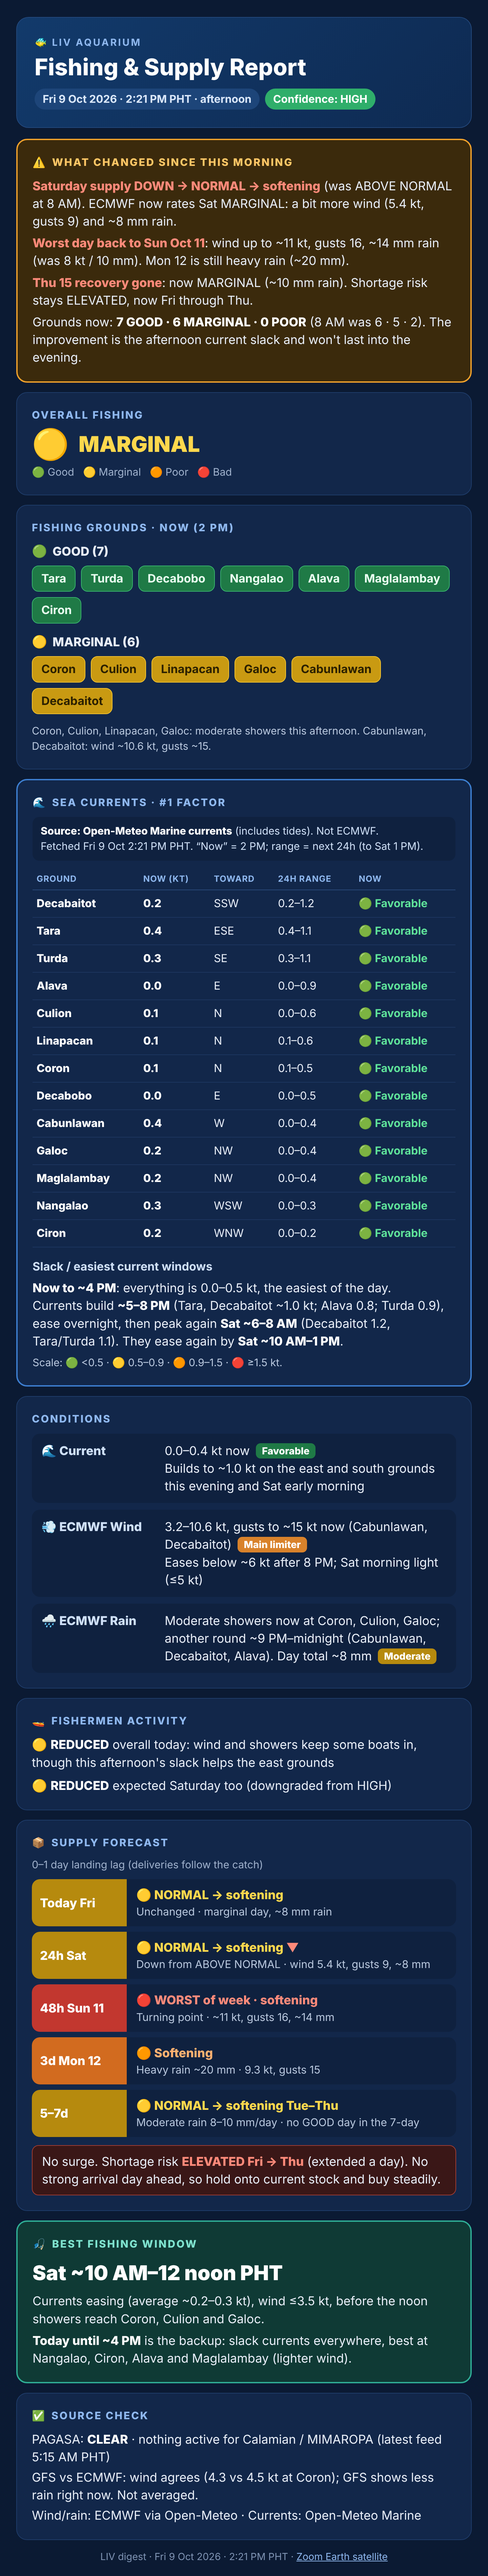
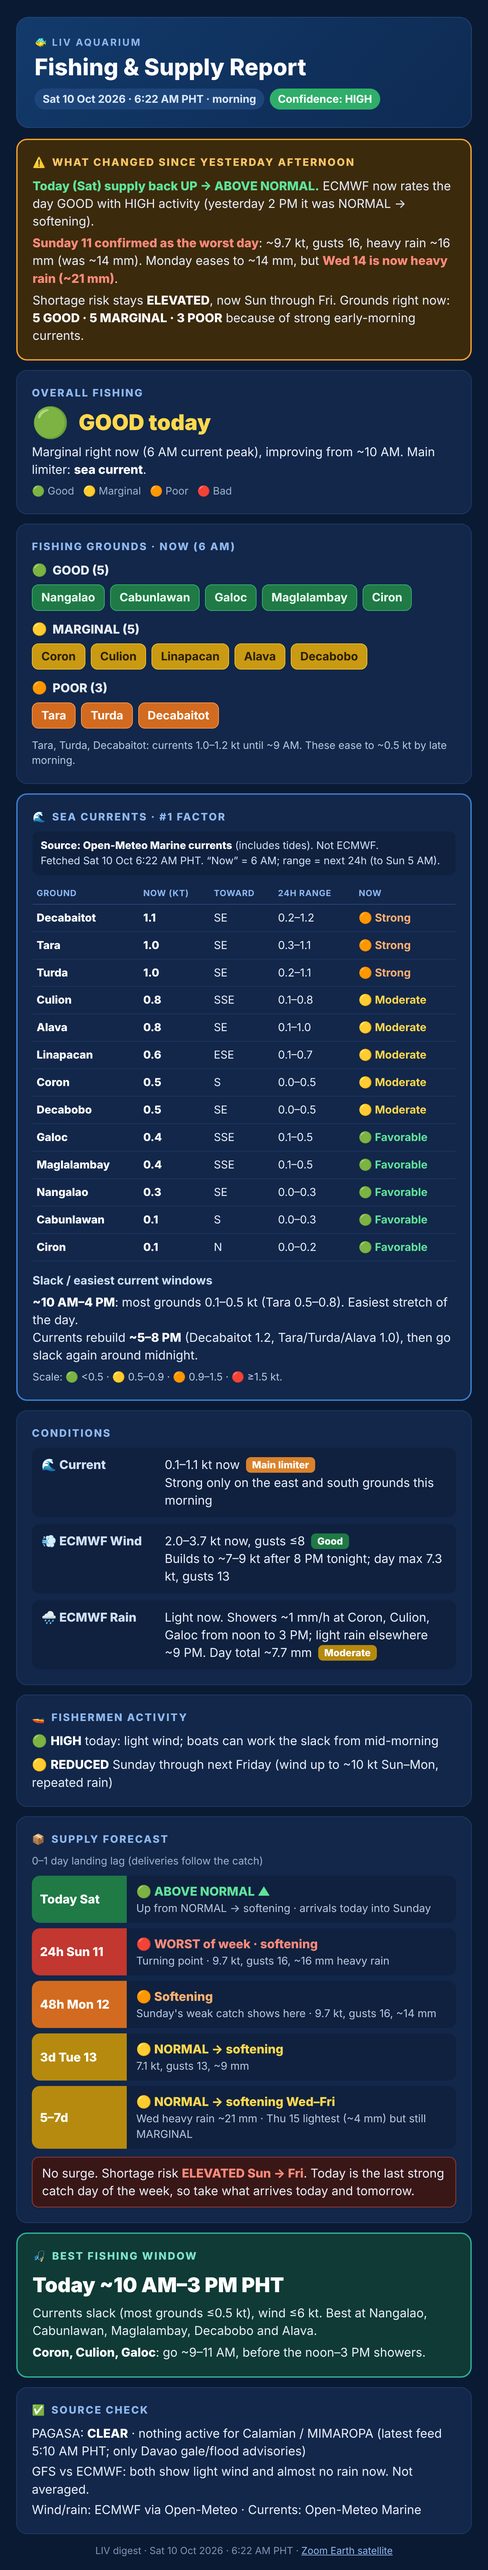
Digest 2026-10-10-am

diff --git a/digest.html b/digest.html
@@ -1,7 +1,7 @@
 <!DOCTYPE html>
 <html lang="en"><head><meta charset="utf-8">
 <meta name="viewport" content="width=device-width, initial-scale=1">
-<title>LIV Digest · Fri 9 Oct 2026 · 2:21 PM PHT</title>
+<title>LIV Digest · Sat 10 Oct 2026 · 6:22 AM PHT</title>
 <style>
 *{box-sizing:border-box;margin:0;padding:0}
 html{background:#0b1a33;-webkit-text-size-adjust:100%}
@@ -85,91 +85,93 @@ b,strong{font-weight:800;color:#fff}
 .p-high{background:#2fae6a;color:#fff}
 .t-poor{background:#d26b1f;color:#fff}
 .up{color:#5fe39a;font-weight:800}.dn{color:#ff8a7a;font-weight:800}
-</style></head><body><div style="font:14px system-ui;padding:8px 12px;background:#0b3d5c;color:#fff"><b>LIV Fishing &amp; Supply digest</b> &middot; <a style="color:#9fd8ff" href="./index.html">Map dashboard</a> &middot; <a style="color:#9fd8ff" href="./digest.html">Latest report</a> &middot; <a style="color:#9fd8ff" href="./archive/">Archive</a> &middot; <a style="color:#9fd8ff" href="latest.png">Image</a></div>
+.o{background:#d26b1f;color:#fff;border:1px solid #ff9a4d}</style><body><div style="font:14px system-ui;padding:8px 12px;background:#0b3d5c;color:#fff"><b>LIV Fishing &amp; Supply digest</b> &middot; <a style="color:#9fd8ff" href="./index.html">Map dashboard</a> &middot; <a style="color:#9fd8ff" href="./digest.html">Latest report</a> &middot; <a style="color:#9fd8ff" href="./archive/">Archive</a> &middot; <a style="color:#9fd8ff" href="latest.png">Image</a></div>
 <div class="hdr">
   <div class="brand"><span class="e">🐠</span> LIV AQUARIUM</div>
   <div class="title">Fishing &amp; Supply Report</div>
-  <div class="meta"><span class="pill p-date">Fri 9 Oct 2026 · 2:21 PM PHT · afternoon</span><span class="pill p-high">Confidence: HIGH</span></div>
+  <div class="meta"><span class="pill p-date">Sat 10 Oct 2026 · 6:22 AM PHT · morning</span><span class="pill p-high">Confidence: HIGH</span></div>
 </div>
 <div class="card banner">
-  <h2><span class="e">⚠</span> What changed since this morning</h2>
-  <p><b class="dn">Saturday supply DOWN → NORMAL → softening</b> (was ABOVE NORMAL at 8 AM). ECMWF now rates Sat MARGINAL: a bit more wind (5.4 kt, gusts 9) and ~8 mm rain.</p>
-  <p><b class="dn">Worst day back to Sun Oct 11</b>: wind up to ~11 kt, gusts 16, ~14 mm rain (was 8 kt / 10 mm). Mon 12 is still heavy rain (~20 mm).</p>
-  <p><b class="dn">Thu 15 recovery gone</b>: now MARGINAL (~10 mm rain). Shortage risk stays ELEVATED, now Fri through Thu.</p>
-  <p style="margin-bottom:0">Grounds now: <b>7 GOOD · 6 MARGINAL · 0 POOR</b> (8 AM was 6 · 5 · 2). The improvement is the afternoon current slack and won't last into the evening.</p>
+  <h2><span class="e">⚠</span> What changed since yesterday afternoon</h2>
+  <p><b class="up">Today (Sat) supply back UP → ABOVE NORMAL.</b> ECMWF now rates the day GOOD with HIGH activity (yesterday 2 PM it was NORMAL → softening).</p>
+  <p><b class="dn">Sunday 11 confirmed as the worst day</b>: ~9.7 kt, gusts 16, heavy rain ~16 mm (was ~14 mm). Monday eases to ~14 mm, but <b class="dn">Wed 14 is now heavy rain (~21 mm)</b>.</p>
+  <p style="margin-bottom:0">Shortage risk stays <b>ELEVATED</b>, now Sun through Fri. Grounds right now: <b>5 GOOD · 5 MARGINAL · 3 POOR</b> because of strong early-morning currents.</p>
 </div>
 <div class="card">
   <h2>Overall fishing</h2>
-  <div class="overall"><span class="ico e">🟡</span><span class="big">MARGINAL</span></div>
+  <div class="overall"><span class="ico e">🟢</span><span class="big">GOOD today</span></div>
+  <p style="margin-top:8px">Marginal right now (6 AM current peak), improving from ~10 AM. Main limiter: <b>sea current</b>.</p>
   <div class="scale"><span class="e">🟢</span> Good &nbsp; <span class="e">🟡</span> Marginal &nbsp; <span class="e">🟠</span> Poor &nbsp; <span class="e">🔴</span> Bad</div>
 </div>
 <div class="card">
-  <h2>Fishing grounds · now (2 PM)</h2>
-  <div class="grp"><div class="lbl"><span class="e">🟢</span> GOOD (7)</div>
-    <div class="chips"><span class="chip g">Tara</span><span class="chip g">Turda</span><span class="chip g">Decabobo</span><span class="chip g">Nangalao</span><span class="chip g">Alava</span><span class="chip g">Maglalambay</span><span class="chip g">Ciron</span></div></div>
-  <div class="grp"><div class="lbl"><span class="e">🟡</span> MARGINAL (6)</div>
-    <div class="chips"><span class="chip y">Coron</span><span class="chip y">Culion</span><span class="chip y">Linapacan</span><span class="chip y">Galoc</span><span class="chip y">Cabunlawan</span><span class="chip y">Decabaitot</span></div></div>
-  <p class="fn">Coron, Culion, Linapacan, Galoc: moderate showers this afternoon. Cabunlawan, Decabaitot: wind ~10.6 kt, gusts ~15.</p>
+  <h2>Fishing grounds · now (6 AM)</h2>
+  <div class="grp"><div class="lbl"><span class="e">🟢</span> GOOD (5)</div>
+    <div class="chips"><span class="chip g">Nangalao</span><span class="chip g">Cabunlawan</span><span class="chip g">Galoc</span><span class="chip g">Maglalambay</span><span class="chip g">Ciron</span></div></div>
+  <div class="grp"><div class="lbl"><span class="e">🟡</span> MARGINAL (5)</div>
+    <div class="chips"><span class="chip y">Coron</span><span class="chip y">Culion</span><span class="chip y">Linapacan</span><span class="chip y">Alava</span><span class="chip y">Decabobo</span></div></div>
+  <div class="grp"><div class="lbl"><span class="e">🟠</span> POOR (3)</div>
+    <div class="chips"><span class="chip o">Tara</span><span class="chip o">Turda</span><span class="chip o">Decabaitot</span></div></div>
+  <p class="fn">Tara, Turda, Decabaitot: currents 1.0–1.2 kt until ~9 AM. These ease to ~0.5 kt by late morning.</p>
 </div>
 <div class="card curr">
   <h2><span class="e">🌊</span> Sea currents · #1 factor</h2>
-  <div class="srcline"><b>Source: Open-Meteo Marine currents</b> (includes tides). Not ECMWF.<br>Fetched Fri 9 Oct 2:21 PM PHT. “Now” = 2 PM; range = next 24h (to Sat 1 PM).</div>
+  <div class="srcline"><b>Source: Open-Meteo Marine currents</b> (includes tides). Not ECMWF.<br>Fetched Sat 10 Oct 6:22 AM PHT. “Now” = 6 AM; range = next 24h (to Sun 5 AM).</div>
   <div class="tw"><table class="ct"><thead><tr><th>Ground</th><th>Now (kt)</th><th>Toward</th><th>24h range</th><th>Now</th></tr></thead><tbody>
-<tr><td class="gn">Decabaitot</td><td><b>0.2</b></td><td>SSW</td><td>0.2–1.2</td><td><span class="cs cs-g"><span class="e">🟢</span><span class="ctx"> Favorable</span></span></td></tr>
-<tr><td class="gn">Tara</td><td><b>0.4</b></td><td>ESE</td><td>0.4–1.1</td><td><span class="cs cs-g"><span class="e">🟢</span><span class="ctx"> Favorable</span></span></td></tr>
-<tr><td class="gn">Turda</td><td><b>0.3</b></td><td>SE</td><td>0.3–1.1</td><td><span class="cs cs-g"><span class="e">🟢</span><span class="ctx"> Favorable</span></span></td></tr>
-<tr><td class="gn">Alava</td><td><b>0.0</b></td><td>E</td><td>0.0–0.9</td><td><span class="cs cs-g"><span class="e">🟢</span><span class="ctx"> Favorable</span></span></td></tr>
-<tr><td class="gn">Culion</td><td><b>0.1</b></td><td>N</td><td>0.0–0.6</td><td><span class="cs cs-g"><span class="e">🟢</span><span class="ctx"> Favorable</span></span></td></tr>
-<tr><td class="gn">Linapacan</td><td><b>0.1</b></td><td>N</td><td>0.1–0.6</td><td><span class="cs cs-g"><span class="e">🟢</span><span class="ctx"> Favorable</span></span></td></tr>
-<tr><td class="gn">Coron</td><td><b>0.1</b></td><td>N</td><td>0.1–0.5</td><td><span class="cs cs-g"><span class="e">🟢</span><span class="ctx"> Favorable</span></span></td></tr>
-<tr><td class="gn">Decabobo</td><td><b>0.0</b></td><td>E</td><td>0.0–0.5</td><td><span class="cs cs-g"><span class="e">🟢</span><span class="ctx"> Favorable</span></span></td></tr>
-<tr><td class="gn">Cabunlawan</td><td><b>0.4</b></td><td>W</td><td>0.0–0.4</td><td><span class="cs cs-g"><span class="e">🟢</span><span class="ctx"> Favorable</span></span></td></tr>
-<tr><td class="gn">Galoc</td><td><b>0.2</b></td><td>NW</td><td>0.0–0.4</td><td><span class="cs cs-g"><span class="e">🟢</span><span class="ctx"> Favorable</span></span></td></tr>
-<tr><td class="gn">Maglalambay</td><td><b>0.2</b></td><td>NW</td><td>0.0–0.4</td><td><span class="cs cs-g"><span class="e">🟢</span><span class="ctx"> Favorable</span></span></td></tr>
-<tr><td class="gn">Nangalao</td><td><b>0.3</b></td><td>WSW</td><td>0.0–0.3</td><td><span class="cs cs-g"><span class="e">🟢</span><span class="ctx"> Favorable</span></span></td></tr>
-<tr><td class="gn">Ciron</td><td><b>0.2</b></td><td>WNW</td><td>0.0–0.2</td><td><span class="cs cs-g"><span class="e">🟢</span><span class="ctx"> Favorable</span></span></td></tr>
+<tr><td class="gn">Decabaitot</td><td><b>1.1</b></td><td>SE</td><td>0.2–1.2</td><td><span class="cs cs-o"><span class="e">🟠</span><span class="ctx"> Strong</span></span></td></tr>
+<tr><td class="gn">Tara</td><td><b>1.0</b></td><td>SE</td><td>0.3–1.1</td><td><span class="cs cs-o"><span class="e">🟠</span><span class="ctx"> Strong</span></span></td></tr>
+<tr><td class="gn">Turda</td><td><b>1.0</b></td><td>SE</td><td>0.2–1.1</td><td><span class="cs cs-o"><span class="e">🟠</span><span class="ctx"> Strong</span></span></td></tr>
+<tr><td class="gn">Culion</td><td><b>0.8</b></td><td>SSE</td><td>0.1–0.8</td><td><span class="cs cs-y"><span class="e">🟡</span><span class="ctx"> Moderate</span></span></td></tr>
+<tr><td class="gn">Alava</td><td><b>0.8</b></td><td>SE</td><td>0.1–1.0</td><td><span class="cs cs-y"><span class="e">🟡</span><span class="ctx"> Moderate</span></span></td></tr>
+<tr><td class="gn">Linapacan</td><td><b>0.6</b></td><td>ESE</td><td>0.1–0.7</td><td><span class="cs cs-y"><span class="e">🟡</span><span class="ctx"> Moderate</span></span></td></tr>
+<tr><td class="gn">Coron</td><td><b>0.5</b></td><td>S</td><td>0.0–0.5</td><td><span class="cs cs-y"><span class="e">🟡</span><span class="ctx"> Moderate</span></span></td></tr>
+<tr><td class="gn">Decabobo</td><td><b>0.5</b></td><td>SE</td><td>0.0–0.5</td><td><span class="cs cs-y"><span class="e">🟡</span><span class="ctx"> Moderate</span></span></td></tr>
+<tr><td class="gn">Galoc</td><td><b>0.4</b></td><td>SSE</td><td>0.1–0.5</td><td><span class="cs cs-g"><span class="e">🟢</span><span class="ctx"> Favorable</span></span></td></tr>
+<tr><td class="gn">Maglalambay</td><td><b>0.4</b></td><td>SSE</td><td>0.1–0.5</td><td><span class="cs cs-g"><span class="e">🟢</span><span class="ctx"> Favorable</span></span></td></tr>
+<tr><td class="gn">Nangalao</td><td><b>0.3</b></td><td>SE</td><td>0.0–0.3</td><td><span class="cs cs-g"><span class="e">🟢</span><span class="ctx"> Favorable</span></span></td></tr>
+<tr><td class="gn">Cabunlawan</td><td><b>0.1</b></td><td>S</td><td>0.0–0.3</td><td><span class="cs cs-g"><span class="e">🟢</span><span class="ctx"> Favorable</span></span></td></tr>
+<tr><td class="gn">Ciron</td><td><b>0.1</b></td><td>N</td><td>0.0–0.2</td><td><span class="cs cs-g"><span class="e">🟢</span><span class="ctx"> Favorable</span></span></td></tr>
   </tbody></table></div>
   <h3>Slack / easiest current windows</h3>
-  <p><b>Now to ~4 PM</b>: everything is 0.0–0.5 kt, the easiest of the day.</p>
-  <p>Currents build <b>~5–8 PM</b> (Tara, Decabaitot ~1.0 kt; Alava 0.8; Turda 0.9), ease overnight, then peak again <b>Sat ~6–8 AM</b> (Decabaitot 1.2, Tara/Turda 1.1). They ease again by <b>Sat ~10 AM–1 PM</b>.</p>
+  <p><b>~10 AM–4 PM</b>: most grounds 0.1–0.5 kt (Tara 0.5–0.8). Easiest stretch of the day.</p>
+  <p>Currents rebuild <b>~5–8 PM</b> (Decabaitot 1.2, Tara/Turda/Alava 1.0), then go slack again around midnight.</p>
   <p class="fn" style="margin-top:8px">Scale: 🟢 &lt;0.5 · 🟡 0.5–0.9 · 🟠 0.9–1.5 · 🔴 ≥1.5 kt.</p>
 </div>
 <div class="card">
   <h2>Conditions</h2>
   <div class="cond">
-    <div class="crow"><div class="k"><span class="e">🌊</span> Current</div><div>0.0–0.4 kt now <span class="tag t-good">Favorable</span><br>Builds to ~1.0 kt on the east and south grounds this evening and Sat early morning</div></div>
-    <div class="crow"><div class="k"><span class="e">💨</span> ECMWF Wind</div><div>3.2–10.6 kt, gusts to ~15 kt now (Cabunlawan, Decabaitot) <span class="tag t-lim">Main limiter</span><br>Eases below ~6 kt after 8 PM; Sat morning light (≤5 kt)</div></div>
-    <div class="crow"><div class="k"><span class="e">🌧</span> ECMWF Rain</div><div>Moderate showers now at Coron, Culion, Galoc; another round ~9 PM–midnight (Cabunlawan, Decabaitot, Alava). Day total ~8 mm <span class="tag t-mod">Moderate</span></div></div>
+    <div class="crow"><div class="k"><span class="e">🌊</span> Current</div><div>0.1–1.1 kt now <span class="tag t-lim">Main limiter</span><br>Strong only on the east and south grounds this morning</div></div>
+    <div class="crow"><div class="k"><span class="e">💨</span> ECMWF Wind</div><div>2.0–3.7 kt now, gusts ≤8 <span class="tag t-good">Good</span><br>Builds to ~7–9 kt after 8 PM tonight; day max 7.3 kt, gusts 13</div></div>
+    <div class="crow"><div class="k"><span class="e">🌧</span> ECMWF Rain</div><div>Light now. Showers ~1 mm/h at Coron, Culion, Galoc from noon to 3 PM; light rain elsewhere ~9 PM. Day total ~7.7 mm <span class="tag t-mod">Moderate</span></div></div>
   </div>
 </div>
 <div class="card act">
   <h2><span class="e">🚤</span> Fishermen activity</h2>
-  <p><span class="e">🟡</span> <b>REDUCED</b> overall today: wind and showers keep some boats in, though this afternoon's slack helps the east grounds</p>
-  <p><span class="e">🟡</span> <b>REDUCED</b> expected Saturday too (downgraded from HIGH)</p>
+  <p><span class="e">🟢</span> <b>HIGH</b> today: light wind; boats can work the slack from mid-morning</p>
+  <p><span class="e">🟡</span> <b>REDUCED</b> Sunday through next Friday (wind up to ~10 kt Sun–Mon, repeated rain)</p>
 </div>
 <div class="card">
   <h2><span class="e">📦</span> Supply forecast</h2>
   <div class="sub">0–1 day landing lag (deliveries follow the catch)</div>
   <div class="sup">
-    <div class="bar c-y"><div class="d">Today Fri</div><div class="v"><div class="s"><span class="e">🟡</span> NORMAL → softening</div><div class="x">Unchanged · marginal day, ~8 mm rain</div></div></div>
-    <div class="bar c-y"><div class="d">24h Sat</div><div class="v"><div class="s"><span class="e">🟡</span> NORMAL → softening <span class="dn">▼</span></div><div class="x">Down from ABOVE NORMAL · wind 5.4 kt, gusts 9, ~8 mm</div></div></div>
-    <div class="bar c-r"><div class="d">48h Sun 11</div><div class="v"><div class="s"><span class="e">🔴</span> WORST of week · softening</div><div class="x">Turning point · ~11 kt, gusts 16, ~14 mm</div></div></div>
-    <div class="bar c-o"><div class="d">3d Mon 12</div><div class="v"><div class="s"><span class="e">🟠</span> Softening</div><div class="x">Heavy rain ~20 mm · 9.3 kt, gusts 15</div></div></div>
-    <div class="bar c-y"><div class="d">5–7d</div><div class="v"><div class="s"><span class="e">🟡</span> NORMAL → softening Tue–Thu</div><div class="x">Moderate rain 8–10 mm/day · no GOOD day in the 7-day</div></div></div>
+    <div class="bar c-g"><div class="d">Today Sat</div><div class="v"><div class="s"><span class="e">🟢</span> ABOVE NORMAL <span class="up">▲</span></div><div class="x">Up from NORMAL → softening · arrivals today into Sunday</div></div></div>
+    <div class="bar c-r"><div class="d">24h Sun 11</div><div class="v"><div class="s"><span class="e">🔴</span> WORST of week · softening</div><div class="x">Turning point · 9.7 kt, gusts 16, ~16 mm heavy rain</div></div></div>
+    <div class="bar c-o"><div class="d">48h Mon 12</div><div class="v"><div class="s"><span class="e">🟠</span> Softening</div><div class="x">Sunday's weak catch shows here · 9.7 kt, gusts 16, ~14 mm</div></div></div>
+    <div class="bar c-y"><div class="d">3d Tue 13</div><div class="v"><div class="s"><span class="e">🟡</span> NORMAL → softening</div><div class="x">7.1 kt, gusts 13, ~9 mm</div></div></div>
+    <div class="bar c-y"><div class="d">5–7d</div><div class="v"><div class="s"><span class="e">🟡</span> NORMAL → softening Wed–Fri</div><div class="x">Wed heavy rain ~21 mm · Thu 15 lightest (~4 mm) but still MARGINAL</div></div></div>
   </div>
-  <div class="risk">No surge. Shortage risk <b style="color:#ff8a7a">ELEVATED Fri → Thu</b> (extended a day). No strong arrival day ahead, so hold onto current stock and buy steadily.</div>
+  <div class="risk">No surge. Shortage risk <b style="color:#ff8a7a">ELEVATED Sun → Fri</b>. Today is the last strong catch day of the week, so take what arrives today and tomorrow.</div>
 </div>
 <div class="card win">
   <h2><span class="e">🎣</span> Best fishing window</h2>
-  <div class="when">Sat ~10 AM–12 noon PHT</div>
-  <p>Currents easing (average ~0.2–0.3 kt), wind ≤3.5 kt, before the noon showers reach Coron, Culion and Galoc.</p>
-  <p style="margin-bottom:0"><b>Today until ~4 PM</b> is the backup: slack currents everywhere, best at Nangalao, Ciron, Alava and Maglalambay (lighter wind).</p>
+  <div class="when">Today ~10 AM–3 PM PHT</div>
+  <p>Currents slack (most grounds ≤0.5 kt), wind ≤6 kt. Best at Nangalao, Cabunlawan, Maglalambay, Decabobo and Alava.</p>
+  <p style="margin-bottom:0"><b>Coron, Culion, Galoc</b>: go ~9–11 AM, before the noon–3 PM showers.</p>
 </div>
 <div class="card src">
   <h2><span class="e">✅</span> Source check</h2>
-  <p>PAGASA: <b>CLEAR</b> · nothing active for Calamian / MIMAROPA (latest feed 5:15 AM PHT)</p>
-  <p>GFS vs ECMWF: wind agrees (4.3 vs 4.5 kt at Coron); GFS shows less rain right now. Not averaged.</p>
+  <p>PAGASA: <b>CLEAR</b> · nothing active for Calamian / MIMAROPA (latest feed 5:10 AM PHT; only Davao gale/flood advisories)</p>
+  <p>GFS vs ECMWF: both show light wind and almost no rain now. Not averaged.</p>
   <p style="margin-bottom:0">Wind/rain: ECMWF via Open-Meteo · Currents: Open-Meteo Marine</p>
 </div>
-<div class="foot">LIV digest · Fri 9 Oct 2026 · 2:21 PM PHT · <a href="https://zoom.earth/maps/satellite/#view=12.0,120.2,8z">Zoom Earth satellite</a></div>
+<div class="foot">LIV digest · Sat 10 Oct 2026 · 6:22 AM PHT · <a href="https://zoom.earth/maps/satellite/#view=12.0,120.2,8z">Zoom Earth satellite</a></div>
 </body></html>
